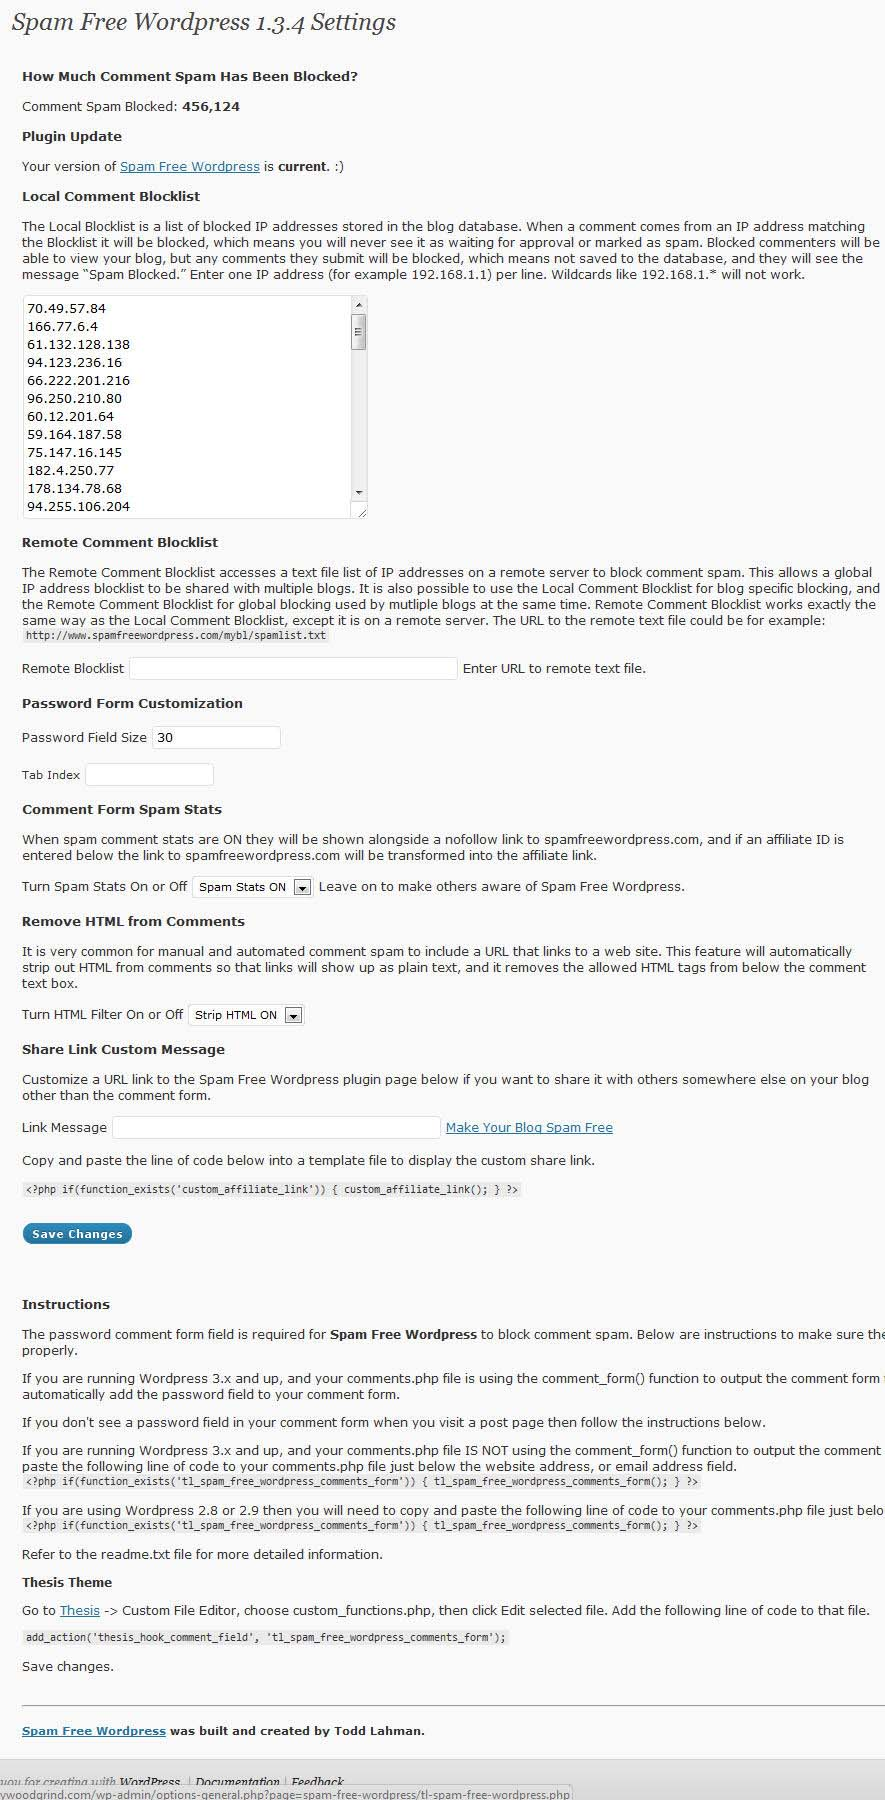
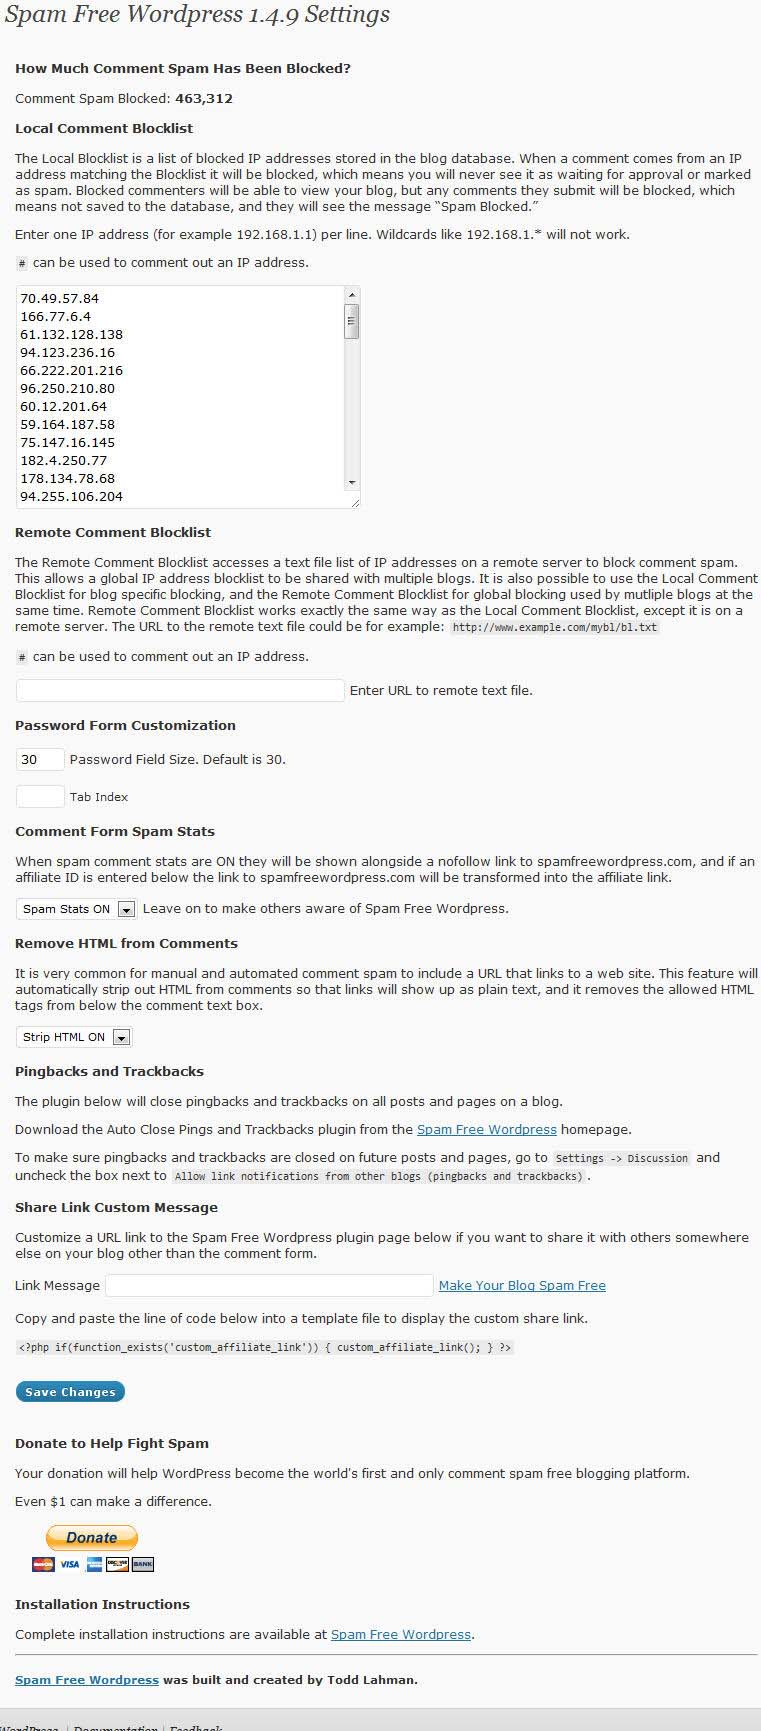
Number localization fix.
git-svn-id: https://plugins.svn.wordpress.org/spam-free-wordpress/tags/1.5.0@403048 b8457f37-d9ea-0310-8a92-e5e31aec5664

diff --git a/tl-spam-free-wordpress.php b/tl-spam-free-wordpress.php
@@ -3,10 +3,13 @@
 Plugin Name: Spam Free Wordpress
 Plugin URI: http://www.toddlahman.com/spam-free-wordpress/
 Description: Comment spam blocking plugin that uses anonymous password authentication to achieve 100% automated spam blocking with zero false positives, plus a few more features.
-Version: 1.4.8
+Version: 1.5.0
 Author: Todd Lahman, LLC
 Author URI: http://www.toddlahman.com/
 */
+
+// Plugin version
+$spam_free_wordpress_version = "1.5.0";
 
 /*
 	Copyright 2007 - 2011 by Todd Lahman, LLC.
@@ -29,8 +32,8 @@ Author URI: http://www.toddlahman.com/
 function add_default_data() {
 	$sfw_options = array(
 	'blocklist_keys' => '',
-	//'remote_blocked_list' => '',
-	'pw_field_size' => '20',
+	'remote_blocked_list' => '',
+	'pw_field_size' => '30',
 	'tab_index' => '',
 	'affiliate_msg' => '',
 	'toggle_stats_update' => 'disable',
@@ -47,32 +50,22 @@ register_activation_hook( __FILE__, 'add_default_data' );
 // The post comment passwords can be deleted also using the following SQL statement.
 // DELETE from wp_postmeta WHERE meta_key = "sfw_comment_form_password" ;
 
-/*
+
 // Runs remove_default_data function above when plugin deactivated
 // Uncomment this code block if you want the all options to be deleted when plugin is deactivated, this includes number of spam blocked
+/*
 function remove_default_data() {
 delete_option('spam_free_wordpress');
 delete_option('sfw_spam_hits');
+delete_option('remote_blocked_list');
 }
-
-// register_deactivation_hook( __FILE__, 'remove_default_data' );
 */
 
-// Plugin version
-$spam_free_wordpress_version = "1.4.8";
+// Uncomment this code block if you want the all options to be deleted when plugin is deactivated, this includes number of spam blocked
+//register_deactivation_hook( __FILE__, 'remove_default_data' );
 
 // variable used as global to retrieve option array for functions
 $wp_sfw_options = get_option('spam_free_wordpress');
-
-// Displays message on Admin settings page if using a Wordpress version older than 3.x
-function older_wp_notice() {
-	global $wp_version;
-
-	if ( version_compare($wp_version, '3.0', '<' ) ) {
-		echo '<table class="form-table"><tr><td><fieldset><label><hr /><h3>WARNING</h3><p>Your version of Wordpress is '.$wp_version.', which is too old to take advantage of the automated features built into Spam Free Wordpress. Please upgrade Wordpress.</p><hr /></label><br /></fieldset></td></tr></table>';
-	}
-}
-
 
 // Checks to see if comment form password exists and if not creates one in custom fields
 function sfw_comment_pass_exist_check() {
@@ -131,8 +124,7 @@ function wp_blocklist_check() {
 		// Skip empty lines
 		if ( empty($lkey) ) { continue; }
 
-		// Do some escaping magic so that '#' chars in the
-		// spam words don't break things:
+		// Can use '#' to comment out line in blocklist
 		$lkey = preg_quote($lkey, '#');
 
 		$pattern = "#$lkey#i";
@@ -143,18 +135,21 @@ function wp_blocklist_check() {
 	}
 	return false;
 }
-/*
+
 // Returns Remote Realtime Comment Blocklist
 function wp_realtime_blocklist_check() {
 	global $wp_sfw_options;
 	
 	// Gets IP address of commenter
 	$comment_author_ip = get_remote_ip_address();
-
-	$remote_blocklist_keys = trim( wp_remote_get($wp_sfw_options['remote_blocked_list']) );
-	if ( '' == $remote_blocklist_keys )
-		return false; // If blocklist keys are empty
-	$remote_key = explode("\n", $remote_blocklist_keys );
+	// Retrieves remote blocklist url from database
+	$rbl_url = $wp_sfw_options['remote_blocked_list'];
+	// Uses a URL to retrieve a list of IP address in an array
+	$get_remote_blocklist = wp_remote_get($rbl_url);
+	
+	if ( '' == $rbl_url )
+		return false; // If blocklist keys are empty or url is not in the database
+	$remote_key = explode("\n", $get_remote_blocklist['body'] ); // Turns blocklist array into string and lists each IP address on new line
 
 	foreach ( (array) $remote_key as $rkey ) {
 		$rkey = trim($rkey);
@@ -162,8 +157,7 @@ function wp_realtime_blocklist_check() {
 		// Skip empty lines
 		if ( empty($rkey) ) { continue; }
 
-		// Do some escaping magic so that '#' chars in the
-		// spam words don't break things:
+		// Can use '#' to comment out line in blocklist
 		$rkey = preg_quote($rkey, '#');
 
 		$pattern = "#$rkey#i";
@@ -174,7 +168,6 @@ function wp_realtime_blocklist_check() {
 	}
 	return false;
 }
-*/
 
 // Customizable Affiliate link
 function custom_affiliate_link() {
@@ -196,11 +189,6 @@ function tl_spam_free_wordpress_comments_form() {
 	global $wp_version;
 	
 	$sfw_comment_form_password_var = get_post_meta( $post->ID, 'sfw_comment_form_password', true );
-	// Checks to see if comment form password exists and if not creates one in custom fields
-	$new_sfw_comment_form_pwd = wp_generate_password(12, false);
-	if( empty($sfw_comment_form_password_var) || !$sfw_comment_form_password_var  && comments_open() ) {
-	update_post_meta($post->ID, 'sfw_comment_form_password', $new_sfw_comment_form_pwd);
-	}
 	
 	$sfw_pw_field_size = $wp_sfw_options['pw_field_size'];
 	$sfw_tab_index = $wp_sfw_options['tab_index'];
@@ -213,12 +201,15 @@ function tl_spam_free_wordpress_comments_form() {
 		echo "<input type='hidden' name='comment_ip' id='comment_ip' value='".get_remote_ip_address()."' />";
 		// Reader must enter this password manually on the comment form
 		echo "<p><label for='pwd_text'>* Copy this password:</label>
-		<input type='text' value='".$sfw_comment_form_password_var."' onclick='this.select()' size='20' /></p>";
+		<input type='text' value='".$sfw_comment_form_password_var."' onclick='this.select()' size='".$sfw_pw_field_size."' /></p>";
 		echo "<p><label for='passthis'>* Type or paste password here:</label>
 		<input type='text' name='passthis' id='passthis' value='".$comment_passthis."' size='".$sfw_pw_field_size."' tabindex='".$sfw_tab_index."' /></p>";
 		// Shows how many comment spam have been killed on the comment form
 		if ($wp_sfw_options['toggle_stats_update'] == "enable") {
-				echo '<p>'.number_format(display_spam_hits()).' Spam Comments Blocked so far by <a href="http://www.toddlahman.com/spam-free-wordpress/" target="_blank" rel="nofollow">Spam Free Wordpress</a></p>';
+				// number_format will cause errors in other locales, so Wordpress created the undocumented number_format_i18n function that properly localizes the number
+				// There is also a date_i18n function. Example at http://cleverwp.com/date_i18n-reference-and-usage/
+				// more here http://wpcodesnippets.info/blog/7-cool-undocumented-wordpress-functions.html
+				echo '<p>'.number_format_i18n(display_spam_hits()).' Spam Comments Blocked so far by <a href="http://www.toddlahman.com/spam-free-wordpress/" target="_blank" rel="nofollow">Spam Free Wordpress</a></p>';
 		} else {
 				echo "";
 		}
@@ -230,11 +221,6 @@ function tl_spam_free_wordpress_comments_post() {
 	global $post;
 	
 	$sfw_comment_script = get_post_meta( $post->ID, 'sfw_comment_form_password', true );
-	// Checks to see if comment form password exists and if not creates one in custom fields
-	$new_sfw_comment_script_pwd = wp_generate_password(12, false);
-	if( empty($sfw_comment_script) || !$sfw_comment_script  && comments_open() ) {
-	update_post_meta($post->ID, 'sfw_comment_form_password', $new_sfw_comment_script_pwd);
-	}
 	
 	// If the reader is logged in don't require password for wp-comments-post.php
 	if ( !is_user_logged_in() ) {
@@ -247,31 +233,11 @@ function tl_spam_free_wordpress_comments_post() {
 		if ($_POST['comment_ip'] == '' || $_POST['comment_ip'] == wp_blocklist_check() )
 			wp_die( __('Spam Blocked by Spam Free Wordpress (local blocklist)', spam_counter()) );
 		
-		//if ($_POST['comment_ip'] == '' || $_POST['comment_ip'] == wp_realtime_blocklist_check() )
-		//	wp_die( __('Spam Blocked by Spam Free Wordpress (remote blocklist)', spam_counter()) );
+		if ($_POST['comment_ip'] == '' || $_POST['comment_ip'] == wp_realtime_blocklist_check() )
+			wp_die( __('Spam Blocked by Spam Free Wordpress (remote blocklist)', spam_counter()) );
 
 	}
 }
-
-/*
-May add hashed password check with hidden form field using function:
-wp_hash_password( $password );
-
-example:
-
-$wp_hasher = new PasswordHash(8, TRUE);
-	
-$password_hashed = '$P$B55D6LjfHDkINU5wF.v2BuuzO0/XPk/';
-$plain_password = 'test';
-	
-if($wp_hasher->CheckPassword($plain_password, $password_hashed)) {
-   echo "YES, Matched";
-}
-else {
-   echo "No, Wrong Password";
-}
-
-*/
 
 // Counts number of comment spam hits and stores in options database table
 function spam_counter() {
@@ -287,8 +253,7 @@ function display_spam_hits() {
 
 // Register Admin Options Page
 function register_spam_free_wordpress_options_page() {
-	add_options_page('Spam Free Wordpress Configuration', 'Spam Free Wordpress', 'manage_options', __FILE__, 'spam_free_wordpress_options_page');
-
+	add_options_page('Spam Free Wordpress Configuration', 'Spam Free Wordpress', 'manage_options', 'spam-free-wordpress-admin-page', 'spam_free_wordpress_options_page');
 }
 
 // Admin Settings Options Page function
@@ -310,7 +275,7 @@ function spam_free_wordpress_options_page() {
 <?php
 
 	echo '<table class="form-table">';
-		if ($_POST['action'] == 'update') {
+		if ($_POST['options']) {
 		
 		$new_wp_sfw_options = $_POST['wp_sfw_options'];
 		update_option('spam_free_wordpress', $new_wp_sfw_options);
@@ -319,35 +284,40 @@ function spam_free_wordpress_options_page() {
 		$msg_status = 'Spam Free Wordpress settings saved.';
 		_e('<div id="message" class="updated fade"><p>' . $msg_status . '</p></div>');
 		}
-
-		older_wp_notice ();
 ?>
 
 <table class="form-table">
 	<tr>
 		<td valign="top">
 			<h3>How Much Comment Spam Has Been Blocked?</h3>
-					<p>Comment Spam Blocked: <b><?php echo number_format(get_option('sfw_spam_hits')); ?></b></p>
+					<p>Comment Spam Blocked: <font style="BACKGROUND-COLOR: #ffffff"><b><?php echo number_format_i18n(get_option('sfw_spam_hits')); ?></b></font></p>
 				
 			<h3>Local Comment Blocklist</h3>
-			<p>The Local Blocklist is a list of blocked IP addresses stored in the blog database. When a comment comes from an IP address matching the Blocklist it will be blocked, which means you will never see it as waiting for approval or marked as spam. Blocked commenters will be able to view your blog, but any comments they submit will be blocked, which means not saved to the database, and they will see the message &#8220;Spam Blocked.&#8221; Enter one IP address (for example 192.168.1.1) per line. Wildcards like 192.168.1.* will not work.</p>
+			<p>The Local Blocklist is a list of blocked IP addresses stored in the blog database. When a comment comes from an IP address matching the Blocklist it will be blocked, which means you will never see it as waiting for approval or marked as spam. Blocked commenters will be able to view your blog, but any comments they submit will be blocked, which means not saved to the database, and they will see the message &#8220;Spam Blocked.&#8221;</p>
+			<p>Enter one IP address (for example 192.168.1.1) per line. Wildcards like 192.168.1.* will not work.</p>
+			<p><code>#</code> can be used to comment out an IP address.</p>
 				<fieldset>
 					<label><textarea name="wp_sfw_options[blocklist_keys]" cols='40' rows='12' ><?php echo $wp_sfw_options['blocklist_keys']; ?></textarea></label><br />
 				</fieldset>
-				
 
+			<h3>Remote Comment Blocklist</h3>
+			<p>The Remote Comment Blocklist accesses a text file list of IP addresses on a remote server to block comment spam. This allows a global IP address blocklist to be shared with multiple blogs. It is also possible to use the Local Comment Blocklist for blog specific blocking, and the Remote Comment Blocklist for global blocking used by mutliple blogs at the same time. Remote Comment Blocklist works exactly the same way as the Local Comment Blocklist, except it is on a remote server. The URL to the remote text file could be for example: <code>http://www.example.com/mybl/bl.txt</code></p>
+			<p><code>#</code> can be used to comment out an IP address.</p>
+				<fieldset>
+					<label><p><input type="text" size="60" name="wp_sfw_options[remote_blocked_list]" value="<?php echo $wp_sfw_options['remote_blocked_list']; ?>" /> Enter URL to remote text file.</p></label>
+				</fieldset>
 				
 			<h3>Password Form Customization</h3>
 				<fieldset>
-					<label><p>Password Field Size <input type="text" name="wp_sfw_options[pw_field_size]" value="<?php echo $wp_sfw_options['pw_field_size']; ?>" /> Default is 20.</label>
+					<label><p><input type="text" name="wp_sfw_options[pw_field_size]" size="4" value="<?php echo $wp_sfw_options['pw_field_size']; ?>" /> Password Field Size. Default is 30.</label>
 				</fieldset>
 				<fieldset>
-					<label>Tab Index </font><input type="text" name="wp_sfw_options[tab_index]" value="<?php echo $wp_sfw_options['tab_index']; ?>" /></p></label>
+					<label><input type="text" name="wp_sfw_options[tab_index]" size="4" value="<?php echo $wp_sfw_options['tab_index']; ?>" /> Tab Index </p></label>
 				</fieldset>
 				
 			<h3>Comment Form Spam Stats</h3>
 			<p>When spam comment stats are ON they will be shown alongside a nofollow link to spamfreewordpress.com, and if an affiliate ID is entered below the link to spamfreewordpress.com will be transformed into the affiliate link.</p>
-				<label><p>Turn Spam Stats On or Off
+				<label><p>
 					<select name="wp_sfw_options[toggle_stats_update]" class="toggle_stats">
 						<option value="disable" <?php selected( 'disable', $wp_sfw_options['toggle_stats_update'] ); ?> ><?php _e( 'Spam Stats OFF' ) ?></option>
 						<option value="enable" <?php selected( 'enable', $wp_sfw_options['toggle_stats_update'] ); ?> ><?php _e( 'Spam Stats ON' ) ?></option>
@@ -356,13 +326,18 @@ function spam_free_wordpress_options_page() {
 				
 			<h3>Remove HTML from Comments</h3>
 			<p>It is very common for manual and automated comment spam to include a URL that links to a web site. This feature will automatically strip out HTML from comments so that links will show up as plain text, and it removes the allowed HTML tags from below the comment text box.</p>
-				<label><p>Turn HTML Filter On or Off
+				<label><p>
 					<select name="wp_sfw_options[toggle_html]" class="toggle_html">
 						<option value="disable" <?php selected( 'disable', $wp_sfw_options['toggle_html'] ); ?> ><?php _e( 'Strip HTML OFF' ) ?></option>
 						<option value="enable" <?php selected( 'enable', $wp_sfw_options['toggle_html'] ); ?> ><?php _e( 'Strip HTML ON' ) ?></option>
 					</select>
 				</p></label>
 				
+			<h3>Pingbacks and Trackbacks</h3>
+			<p>The plugin below will close pingbacks and trackbacks on all posts and pages on a blog.</p>
+			<p>Download the Auto Close Pings and Trackbacks plugin from the <a href="http://www.toddlahman.com/spam-free-wordpress/" target="_blank">Spam Free Wordpress</a> homepage.</p>
+			<p>To make sure pingbacks and trackbacks are closed on future posts and pages, go to <code>Settings -> Discussion</code> and uncheck the box next to <code>Allow link notifications from other blogs (pingbacks and trackbacks)</code>.</p>
+		
 			<h3>Share Link Custom Message</h3>
 			<p>Customize a URL link to the Spam Free Wordpress plugin page below if you want to share it with others somewhere else on your blog other than the comment form.</p>
 				<fieldset>
@@ -371,46 +346,35 @@ function spam_free_wordpress_options_page() {
 			<p>Copy and paste the line of code below into a template file to display the custom share link.</p>
 			<code>&lt;?php if(function_exists('custom_affiliate_link')) { custom_affiliate_link(); } ?&gt;</code>
 			
-			<input type="hidden" name="page_options" value="<?php echo $wp_sfw_options ?>" />
-			<input type="hidden" name="action" value="update" />
 			<p class="submit">
-			<input type="submit" name="Submit" class="button-primary" value="<?php _e('Save Changes') ?>" />
+			<input type="submit" name="options" class="button-primary" value="<?php _e('Save Changes') ?>" />
 			</p>
 </form>
+
+			<h3>Donate to Help Fight Spam</h3>
+			<p>Your donation will help WordPress become the world's first and only comment spam free blogging platform.</p>
+			<p>Even $1 can make a difference.</p>
+			<p>
+			<form action="https://www.paypal.com/cgi-bin/webscr" method="post">
+			<input type="hidden" name="cmd" value="_s-xclick">
+			<input type="hidden" name="hosted_button_id" value="SFVH6PCCC6TLG">
+			<input type="image" src="https://www.paypalobjects.com/en_US/i/btn/btn_donateCC_LG.gif" border="0" name="submit" alt="PayPal - The safer, easier way to pay online!">
+			<img alt="" border="0" src="https://www.paypalobjects.com/en_US/i/scr/pixel.gif" width="1" height="1">
+			</form>
+			</p>
+
+			<h3>Installation Instructions</h3>
+			<p>Complete installation instructions are available at <a href="http://www.toddlahman.com/spam-free-wordpress/" target="_blank">Spam Free Wordpress</a>.
+
+			<hr />
+			<h4><a href="http://www.toddlahman.com/" target="_blank">Spam Free Wordpress</a> was built and created by Todd Lahman.</h4>
 			
 		</td>
 			
 		<td valign="top">
 			<div id="sideblock" style="float:right;width:275px;margin-left:10px;"> 		 
-				<iframe width="275" height="800" frameborder="0" src="http://www.toddlahman.com/plugin-news/sfw/spw-plugin-news.html?utm_source=sfw-plugin&utm_medium=sfw-plugin&utm_campaign=sfw-plugin"></iframe>
+				<iframe width="275" height="1070" frameborder="0" src="http://www.toddlahman.com/plugin-news/sfw/spw-plugin-news.html?utm_source=sfw-plugin&utm_medium=sfw-plugin&utm_campaign=sfw-plugin"></iframe>
 			</div>
-		</td>
-	</tr>
-</table>
-
-<table class="form-table">
-	<tr>
-		<td>
-		<h3>Instructions</h3>
-			<p>The password comment form field is required for <strong>Spam Free Wordpress</strong> to block comment spam. Below are instructions to make sure the comment form password field is working properly.</p>
-			<p>If you are running Wordpress 3.x and up, and your comments.php file is using the comment_form() function to output the comment form fields, then <strong>Spam Free Wordpress</strong> will automatically add the password field to your comment form.</p>
-			<p>If you don't see a password field in your comment form when you visit a post page then follow the instructions below.</p>
-			<p>If you are running Wordpress 3.x and up, and your comments.php file IS NOT using the comment_form() function to output the comment form fields, then you will need to copy and paste the following line of code to your comments.php file just below the website address, or email address field.<br /><code>&lt;?php if(function_exists('tl_spam_free_wordpress_comments_form')) { tl_spam_free_wordpress_comments_form(); } ?&gt;</code></p>
-			<p>If you are using Wordpress 2.8 or 2.9 then you will need to copy and paste the following line of code to your comments.php file just below the website address, or email address field.<br /><code>&lt;?php if(function_exists('tl_spam_free_wordpress_comments_form')) { tl_spam_free_wordpress_comments_form(); } ?&gt;</code></p>
-			<p>Refer to the readme.txt file for more detailed information.</p>
-			<p><strong>Thesis Theme</strong></p>
-			<p>Go to <a href="http://ngurl.me/thesis" target="_blank">Thesis</a> -> Custom File Editor, choose custom_functions.php, then click Edit selected file. Add the following line of code to that file.</p>
-			<p><code>add_action('thesis_hook_comment_field', 'tl_spam_free_wordpress_comments_form');</code></p>
-			<p>Save changes.</p>
-		</td>
-	</tr>
-</table>
-
-<table class="form-table">
-	<tr>
-		<td>
-			<hr />
-			<h4><a href="http://www.toddlahman.com/" target="_blank">Spam Free Wordpress</a> was built and created by Todd Lahman.</h4>
 		</td>
 	</tr>
 </table>
